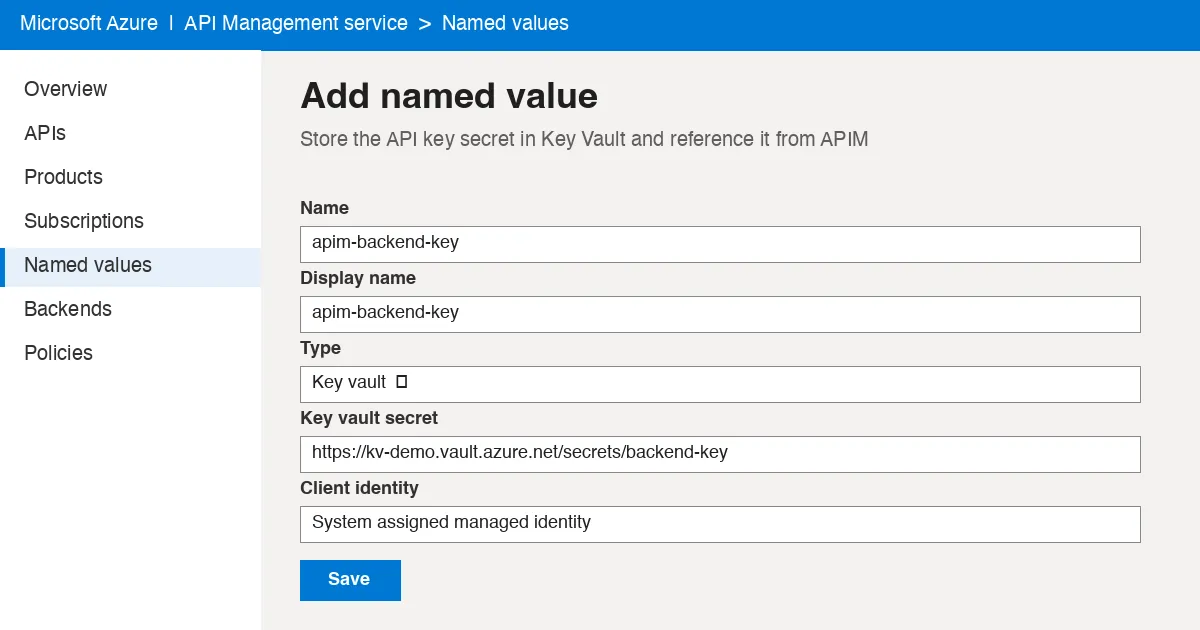
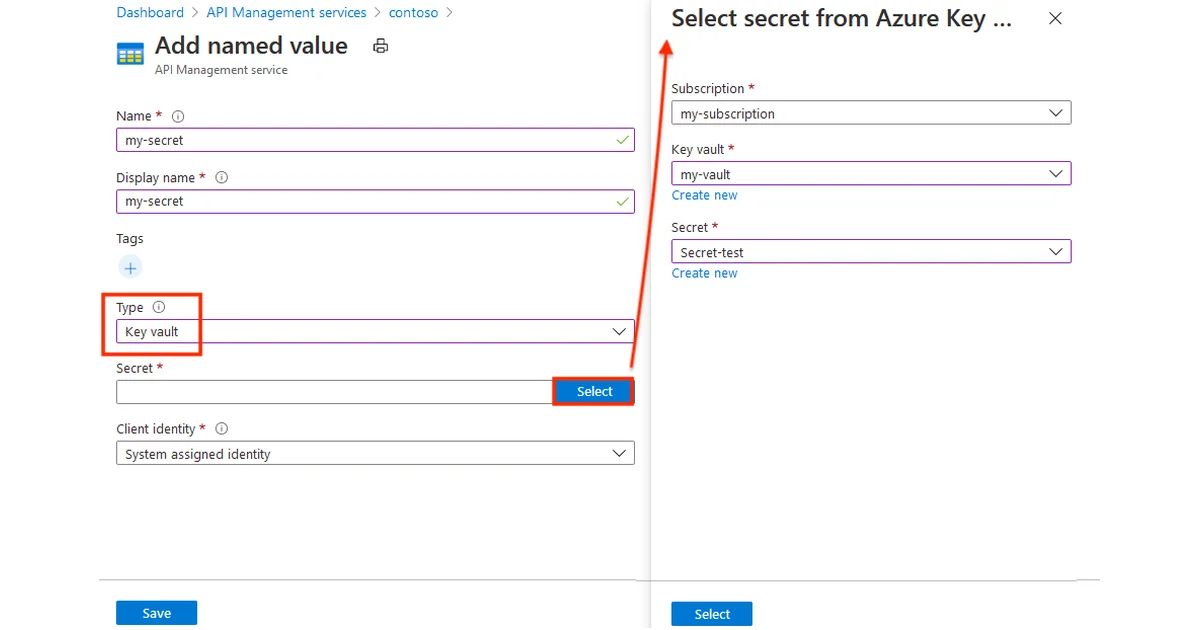
Replace generated APIM Key Vault header with real Azure portal capture
Use the actual 'Add named value' form screenshot from Microsoft Learn
(CC BY 4.0, attributed in the post) in place of the mock rendering, so
the header shows the real product UI. tools/test.sh stays green.

Pulse-Agent: quartz
Pulse-Job: job-20260919T060656Z-754490
Pulse-Executor: local

diff --git a/_posts/2022-12-16-APIM-Key-Vault.md b/_posts/2022-12-16-APIM-Key-Vault.md
@@ -53,3 +53,5 @@ To connect Azure API Gateway with Azure Key Vault, you will need to perform the 
 5. Test your API: Once you have configured your API Gateway to use Azure Key Vault, you can test your API to ensure that it is working correctly. To do this, send a request to your API and verify that you receive the expected response.
 
 By following these steps, you can securely connect Azure API Gateway with Azure Key Vault and store and manage your secrets in a centralized location. This can help you secure your APIs and protect sensitive information, such as API keys and secrets, from unauthorized access.
+
+*Header image: Azure portal "Add named value" form, from [Microsoft Learn – Use named values in Azure API Management policies](https://learn.microsoft.com/azure/api-management/api-management-howto-properties), © Microsoft, licensed under [CC BY 4.0](https://creativecommons.org/licenses/by/4.0/).*
